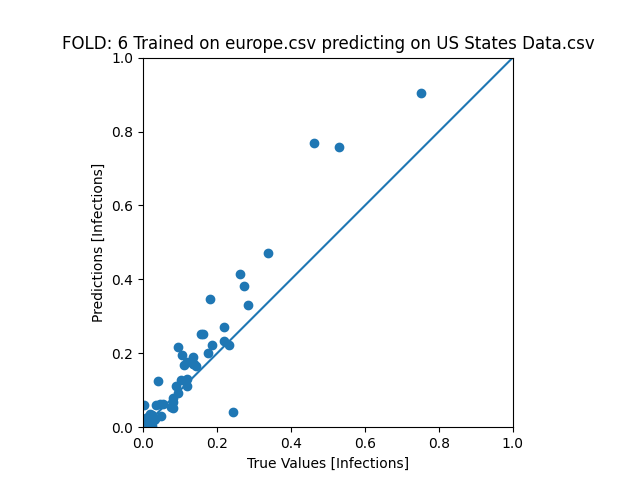
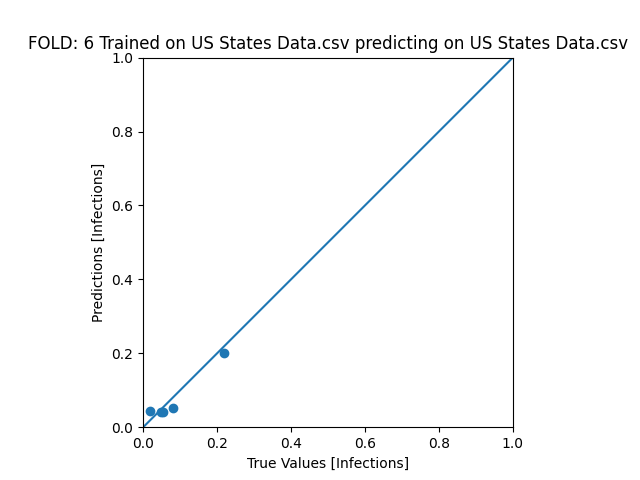
Adds 5 splits to KFold cross validation

diff --git a/Neural_Networks/dnn.py b/Neural_Networks/dnn.py
@@ -171,7 +171,7 @@ def europe_features():
             '%urban pop.  (continuous data)', 'Actual cases']
 
 
-def train_x_test_y(train='US States Data.csv', test='europe.csv', folds=10, debug=False):
+def train_x_test_y(train='US States Data.csv', test='europe.csv', folds=5, debug=False):
     """
     Trains a neural network model on the 'x' dataset and predicts infection rates on the 'y' dataset. The function
     plots the actual vs predicted values and computes the RSquare coefficient of the model.
@@ -205,7 +205,7 @@ def train_x_test_y(train='US States Data.csv', test='europe.csv', folds=10, debu
     test_labels = test_features.pop(4)
 
     # K-Fold initialization
-    k_fold = KFold(n_splits=folds, shuffle=True)
+    k_fold = KFold(n_splits=folds, shuffle=False)
     n_fold = 0
     r_squares = []
     for train_index, test_index in k_fold.split(train_features):
